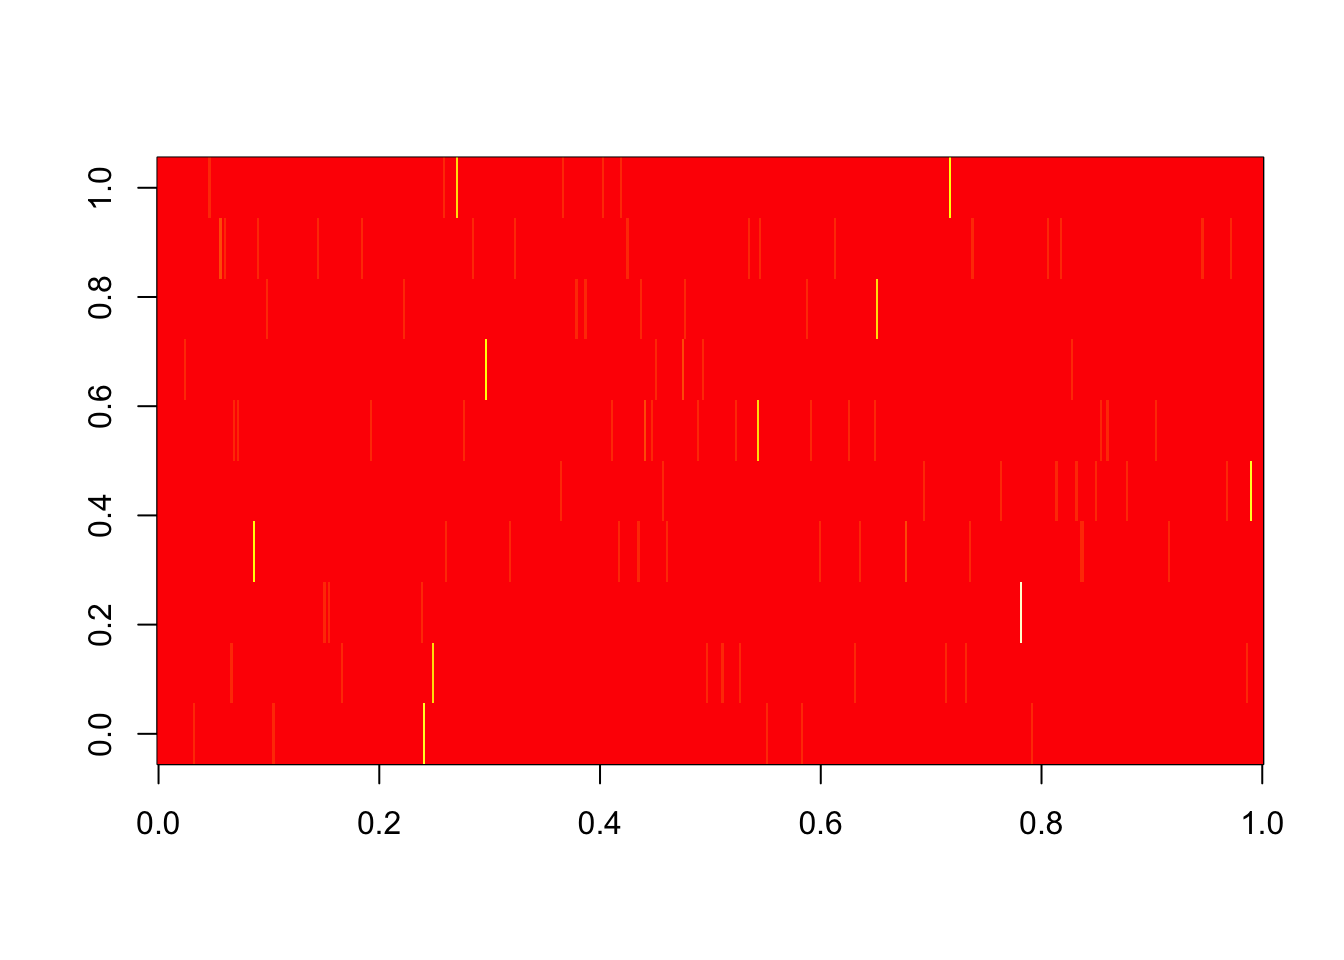
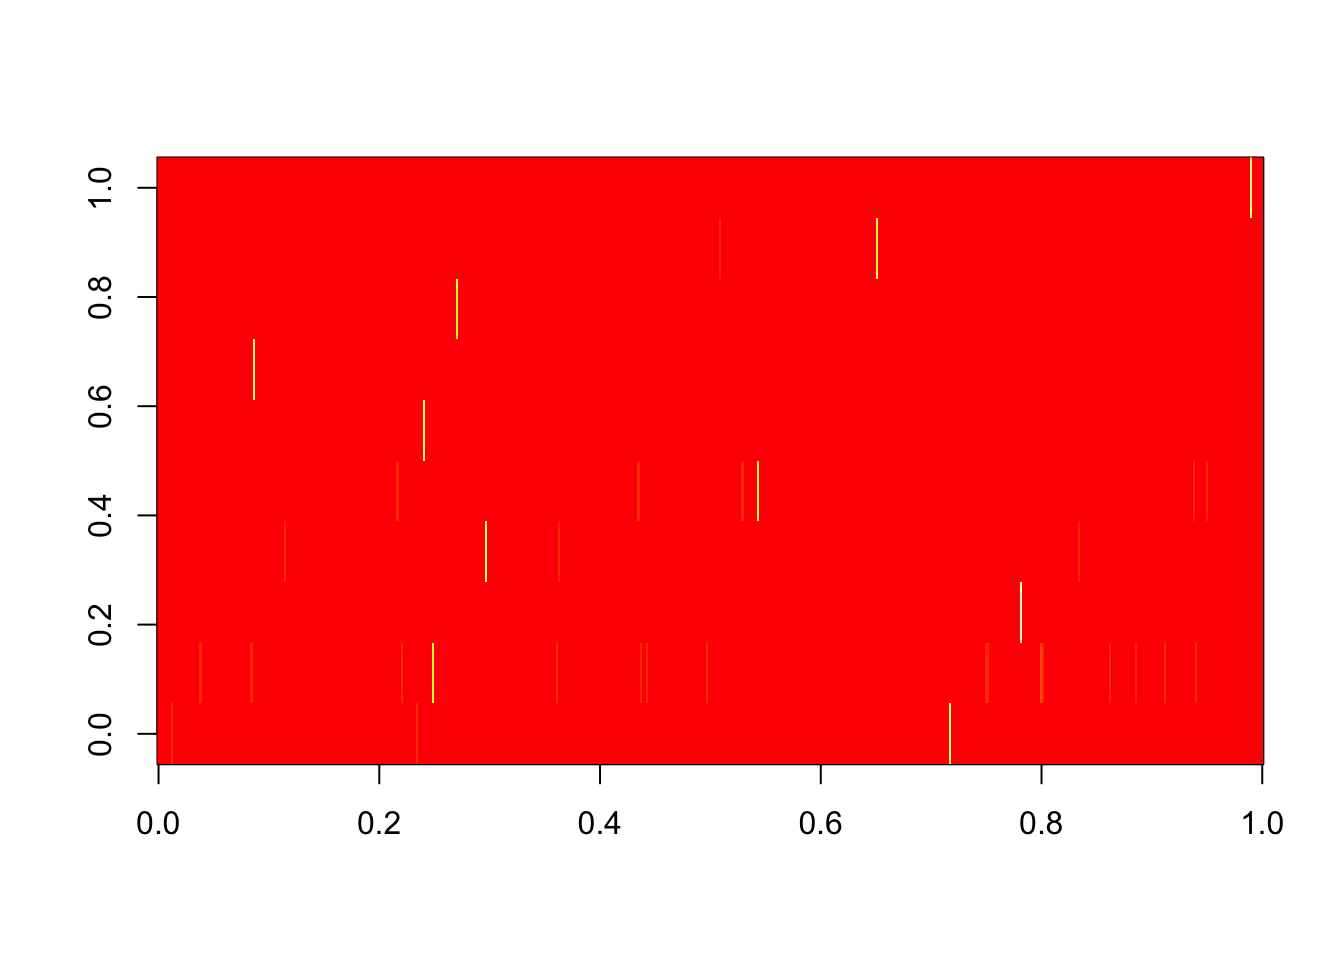
Build site.

diff --git a/docs/generate_anchor.html b/docs/generate_anchor.html
@@ -536,10 +536,10 @@ This reproducible <a href="http://rmarkdown.rstudio.com">R Markdown</a> analysis
 <div class="panel panel-default">
 <div class="panel-heading">
 <p class="panel-title">
-<a data-toggle="collapse" data-parent="#workflowr-checks" href="#strongRepositoryversionstrongahrefhttpsgithubcomzihao12ebpmfdemotreeca447f1870427596443f94520d70032c7788c849targetblankca447f1a"> <span class="glyphicon glyphicon-ok text-success" aria-hidden="true"></span> <strong>Repository version:</strong> <a href="https://github.com/zihao12/ebpmf_demo/tree/ca447f1870427596443f94520d70032c7788c849" target="_blank">ca447f1</a> </a>
+<a data-toggle="collapse" data-parent="#workflowr-checks" href="#strongRepositoryversionstrongahrefhttpsgithubcomzihao12ebpmfdemotree957837ce368e77c4755f75861c8736b2b4f81286targetblank957837ca"> <span class="glyphicon glyphicon-ok text-success" aria-hidden="true"></span> <strong>Repository version:</strong> <a href="https://github.com/zihao12/ebpmf_demo/tree/957837ce368e77c4755f75861c8736b2b4f81286" target="_blank">957837c</a> </a>
 </p>
 </div>
[2 lines of base64/hex data omitted]
 <div class="panel-body">
 <p>
 Great! You are using Git for version control. Tracking code development and connecting the code version to the results is critical for reproducibility. The version displayed above was the version of the Git repository at the time these results were generated. <br><br> Note that you need to be careful to ensure that all relevant files for the analysis have been committed to Git prior to generating the results (you can use <code>wflow_publish</code> or <code>wflow_git_commit</code>). workflowr only checks the R Markdown file, but you know if there are other scripts or data files that it depends on. Below is the status of the Git repository when the results were generated:
@@ -567,6 +567,7 @@ Untracked files:
     Untracked:  analysis/ebpmf_demo.Rmd
     Untracked:  analysis/ebpmf_rank1_demo2.Rmd
     Untracked:  analysis/investigate_nmf_sparse.Rmd
+    Untracked:  analysis/nmf_anchor_word.Rmd
     Untracked:  analysis/play_prior.Rmd
     Untracked:  analysis/plot_g.Rmd
     Untracked:  analysis/softmax_experiments.ipynb
@@ -641,6 +642,40 @@ Message
 Rmd
 </td>
 <td>
+<a href="https://github.com/zihao12/ebpmf_demo/blob/957837ce368e77c4755f75861c8736b2b4f81286/analysis/generate_anchor.Rmd" target="_blank">957837c</a>
+</td>
+<td>
+zihao12
+</td>
+<td>
+2019-12-12
+</td>
+<td>
+update generate_anchor.Rmd
+</td>
+</tr>
+<tr>
+<td>
+html
+</td>
+<td>
+<a href="https://rawcdn.githack.com/zihao12/ebpmf_demo/2a0d0e9085df30299312ef263e5603c1272402a9/docs/generate_anchor.html" target="_blank">2a0d0e9</a>
+</td>
+<td>
+zihao12
+</td>
+<td>
+2019-12-11
+</td>
+<td>
+Build site.
+</td>
+</tr>
+<tr>
+<td>
+Rmd
+</td>
+<td>
 <a href="https://github.com/zihao12/ebpmf_demo/blob/ca447f1870427596443f94520d70032c7788c849/analysis/generate_anchor.Rmd" target="_blank">ca447f1</a>
 </td>
 <td>
@@ -706,8 +741,8 @@ Then <span class="math inline">\(Prob = A W\)</span>, <span class="math inline">
 n = 100
 p = 500
 k = 10
-sep_val = 1
-M = 10
+sep_val = 1 ## the bigger value, the more &quot;separable&quot;
+M = 2*p ## (mean) number of words per document
 
 A = matrix(runif(p*k), ncol = k)
 W = matrix(replicate(n*k, 0), nrow = k)
@@ -735,8 +770,11 @@ prob_m = A %*% W
 
 for(i in 1:n){
   n_word = rpois(n = 1, lambda = M)
-  X[,i] = rmultinom(n = 1, size = p, prob = prob_m[,i])
-}</code></pre>
+  X[,i] = rmultinom(n = 1, size = n_word, prob = prob_m[,i])
+}
+
+print(sprintf(&quot;percentage of 0s: %f&quot;, sum(X == 0)/(n*p)))</code></pre>
+<pre><code>[1] &quot;percentage of 0s: 0.221800&quot;</code></pre>
 </div>
 <div id="fit-with-lda" class="section level2">
 <h2>Fit with <code>LDA</code></h2>
@@ -826,37 +864,6 @@ zihao12
 </table>
 </div>
 </div>
-<p>Try to align topics</p>
-<pre class="r"><code>topic_align &lt;- function(A1, A2){
-  aligned = replicate(ncol(A1), 0)
-  for(d in 1:ncol(A1)){
-    a1 = A1[,d]
-    closest_id = find_closest_topic(a1, A2)
-    aligned[d] = closest_id
-  }
-  return(aligned)
-}
-
-find_closest_topic &lt;- function(a, A){
-  min_dist = Inf
-  closest_id = -1
-  for(d in 1:ncol(A)){
-    #curr_dist = sum((a - A[,d])^2)
-    a_curr = A[,d]
-    curr_dist = sum(a*a_curr)/(sqrt(sum(a^2)) * sqrt(sum(a_curr^2)))
-    if(curr_dist &lt; min_dist){
-      min_dist = curr_dist
-      closest_id = d
-    }
-  }
-  return(closest_id)
-}
-
-topic_align(A, A_lda)</code></pre>
-<pre><code> [1]  3 10  9  5  5 10  2  5 10  5</code></pre>
-<pre class="r"><code>topic_align(A_lda, A)</code></pre>
-<pre><code> [1]  4  7  2 10 10  9  9  2  3  9</code></pre>
-<p>Well, the topics are not close enough (under cosine similarity, or Euclidean distance which I tried).</p>
 <p>Let’s see if we can choose topics by anchor words</p>
 <pre class="r"><code>anchor_set = apply(A, 2, which.max)
 anchor_set_lda = apply(A_lda, 2, which.max)
@@ -870,225 +877,38 @@ for(d in 1:k){
   aligned_ind[d] = curr_id
 }
 aligned_ind</code></pre>
-<pre><code> [1]  2  5 10  8  1  4  7  6  3 -1</code></pre>
+<pre><code> [1]  2 10  1  9  6  7  4  5  3  8</code></pre>
 <pre class="r"><code>aligned_ind[aligned_ind == -1] = 9</code></pre>
-<p>Most topics are aligned by anchor word! For the only unmatached one, I assign topic 9.</p>
+<p>All topics are aligned by anchor word!</p>
 <pre class="r"><code>par(mfrow=c(2,2))
 for(d in 1:k){
   plot(A[,d],main = sprintf(&quot;topic %d&quot;, d))
   plot(A_lda[,aligned_ind[d]], main = sprintf(&quot;topic %d&quot;, d))
 }</code></pre>
-<p><img src="figure/generate_anchor.Rmd/unnamed-chunk-6-1.png" width="672" style="display: block; margin: auto;" /></p>
-<p>
-<button type="button" class="btn btn-default btn-xs btn-workflowr btn-workflowr-fig" data-toggle="collapse" data-target="#fig-unnamed-chunk-6-1">
-Past versions of unnamed-chunk-6-1.png
-</button>
-</p>
-<div id="fig-unnamed-chunk-6-1" class="collapse">
-<div class="table-responsive">
-<table class="table table-condensed table-hover">
-<thead>
-<tr>
-<th>
-Version
-</th>
-<th>
-Author
-</th>
-<th>
-Date
-</th>
-</tr>
-</thead>
-<tbody>
-<tr>
-<td>
-<a href="https://github.com/zihao12/ebpmf_demo/blob/7f84b9b32c978a322a2d99678d4329260b51a7c6/docs/figure/generate_anchor.Rmd/unnamed-chunk-6-1.png" target="_blank">7f84b9b</a>
-</td>
-<td>
-zihao12
-</td>
-<td>
-2019-12-11
-</td>
-</tr>
-</tbody>
-</table>
-</div>
-</div>
-<p><img src="figure/generate_anchor.Rmd/unnamed-chunk-6-2.png" width="672" style="display: block; margin: auto;" /></p>
-<p>
-<button type="button" class="btn btn-default btn-xs btn-workflowr btn-workflowr-fig" data-toggle="collapse" data-target="#fig-unnamed-chunk-6-2">
-Past versions of unnamed-chunk-6-2.png
-</button>
-</p>
-<div id="fig-unnamed-chunk-6-2" class="collapse">
-<div class="table-responsive">
-<table class="table table-condensed table-hover">
-<thead>
-<tr>
-<th>
-Version
-</th>
-<th>
-Author
-</th>
-<th>
-Date
-</th>
-</tr>
-</thead>
-<tbody>
-<tr>
-<td>
-<a href="https://github.com/zihao12/ebpmf_demo/blob/7f84b9b32c978a322a2d99678d4329260b51a7c6/docs/figure/generate_anchor.Rmd/unnamed-chunk-6-2.png" target="_blank">7f84b9b</a>
-</td>
-<td>
-zihao12
-</td>
-<td>
-2019-12-11
-</td>
-</tr>
-</tbody>
-</table>
-</div>
-</div>
-<p><img src="figure/generate_anchor.Rmd/unnamed-chunk-6-3.png" width="672" style="display: block; margin: auto;" /></p>
-<p>
-<button type="button" class="btn btn-default btn-xs btn-workflowr btn-workflowr-fig" data-toggle="collapse" data-target="#fig-unnamed-chunk-6-3">
-Past versions of unnamed-chunk-6-3.png
-</button>
-</p>
-<div id="fig-unnamed-chunk-6-3" class="collapse">
-<div class="table-responsive">
-<table class="table table-condensed table-hover">
-<thead>
-<tr>
-<th>
-Version
-</th>
-<th>
-Author
-</th>
-<th>
-Date
-</th>
-</tr>
-</thead>
-<tbody>
-<tr>
-<td>
-<a href="https://github.com/zihao12/ebpmf_demo/blob/7f84b9b32c978a322a2d99678d4329260b51a7c6/docs/figure/generate_anchor.Rmd/unnamed-chunk-6-3.png" target="_blank">7f84b9b</a>
-</td>
-<td>
-zihao12
-</td>
-<td>
-2019-12-11
-</td>
-</tr>
-</tbody>
-</table>
-</div>
-</div>
-<p><img src="figure/generate_anchor.Rmd/unnamed-chunk-6-4.png" width="672" style="display: block; margin: auto;" /></p>
-<p>
-<button type="button" class="btn btn-default btn-xs btn-workflowr btn-workflowr-fig" data-toggle="collapse" data-target="#fig-unnamed-chunk-6-4">
-Past versions of unnamed-chunk-6-4.png
-</button>
-</p>
-<div id="fig-unnamed-chunk-6-4" class="collapse">
-<div class="table-responsive">
-<table class="table table-condensed table-hover">
-<thead>
-<tr>
-<th>
-Version
-</th>
-<th>
-Author
-</th>
-<th>
-Date
-</th>
-</tr>
-</thead>
-<tbody>
-<tr>
-<td>
-<a href="https://github.com/zihao12/ebpmf_demo/blob/7f84b9b32c978a322a2d99678d4329260b51a7c6/docs/figure/generate_anchor.Rmd/unnamed-chunk-6-4.png" target="_blank">7f84b9b</a>
-</td>
-<td>
-zihao12
-</td>
-<td>
-2019-12-11
-</td>
-</tr>
-</tbody>
-</table>
-</div>
-</div>
-<p><img src="figure/generate_anchor.Rmd/unnamed-chunk-6-5.png" width="672" style="display: block; margin: auto;" /></p>
-<p>
-<button type="button" class="btn btn-default btn-xs btn-workflowr btn-workflowr-fig" data-toggle="collapse" data-target="#fig-unnamed-chunk-6-5">
-Past versions of unnamed-chunk-6-5.png
-</button>
-</p>
-<div id="fig-unnamed-chunk-6-5" class="collapse">
-<div class="table-responsive">
-<table class="table table-condensed table-hover">
-<thead>
-<tr>
-<th>
-Version
-</th>
-<th>
-Author
-</th>
-<th>
-Date
-</th>
-</tr>
-</thead>
-<tbody>
-<tr>
-<td>
-<a href="https://github.com/zihao12/ebpmf_demo/blob/7f84b9b32c978a322a2d99678d4329260b51a7c6/docs/figure/generate_anchor.Rmd/unnamed-chunk-6-5.png" target="_blank">7f84b9b</a>
-</td>
-<td>
-zihao12
-</td>
-<td>
-2019-12-11
-</td>
-</tr>
-</tbody>
-</table>
-</div>
-</div>
+<p><img src="figure/generate_anchor.Rmd/unnamed-chunk-5-1.png" width="672" style="display: block; margin: auto;" /><img src="figure/generate_anchor.Rmd/unnamed-chunk-5-2.png" width="672" style="display: block; margin: auto;" /><img src="figure/generate_anchor.Rmd/unnamed-chunk-5-3.png" width="672" style="display: block; margin: auto;" /><img src="figure/generate_anchor.Rmd/unnamed-chunk-5-4.png" width="672" style="display: block; margin: auto;" /><img src="figure/generate_anchor.Rmd/unnamed-chunk-5-5.png" width="672" style="display: block; margin: auto;" /></p>
 <p>Compare likelihood <span class="math inline">\(p(X|A, W)\)</span>.</p>
 <pre class="r"><code>Lam_true = A %*% W %*% diag(colSums(X))
 Lam_lda = A_lda %*% W_lda %*% diag(colSums(X))
 
 ## likelihood for truth
 sum(dpois(x = X, lambda = Lam_true,log = TRUE))</code></pre>
-<pre><code>[1] -60551.01</code></pre>
+<pre><code>[1] -79349.71</code></pre>
 <pre class="r"><code>## likelihood for LDA result
 sum(dpois(x = X, lambda = Lam_lda,log = TRUE))</code></pre>
-<pre><code>[1] -62793.95</code></pre>
+<pre><code>[1] -82095.6</code></pre>
 </div>
 <div id="conclusion" class="section level2">
 <h2>Conclusion</h2>
 <ul>
-<li>LDA does not learn <span class="math inline">\(A\)</span> well enough. Although it can identify most topics through anchor words, the non-anchor words are too noisy.Also, the likelihood is worse than truth (maybe I didn’t run LDA long enough?)</li>
+<li><p>LDA is able to find topics correctly in this simple example, but the estimate has some wrong signals. Its likelihood is also worse than truth.</p></li>
+<li><p>The ability to recover true <span class="math inline">\(A\)</span> depends on the number of words per document. I tried using <span class="math inline">\(p\)</span> and it fails to identify one topic. Not surprising.</p></li>
 </ul>
 </div>
 <div id="to-do" class="section level2">
 <h2>To do</h2>
 <ul>
-<li><p>Run MLE (EM or second-order methods). If it looks similar, then this is a good example where we need shrinkage!</p></li>
+<li><p>Make a set of anchor words for each topic … more noise …</p></li>
+<li><p>Run MLE (EM or second-order methods).</p></li>
 <li><p>Run <code>anchor word</code> type methods</p></li>
 <li><p>See how <code>ebpmf</code> performs.</p></li>
 </ul>
